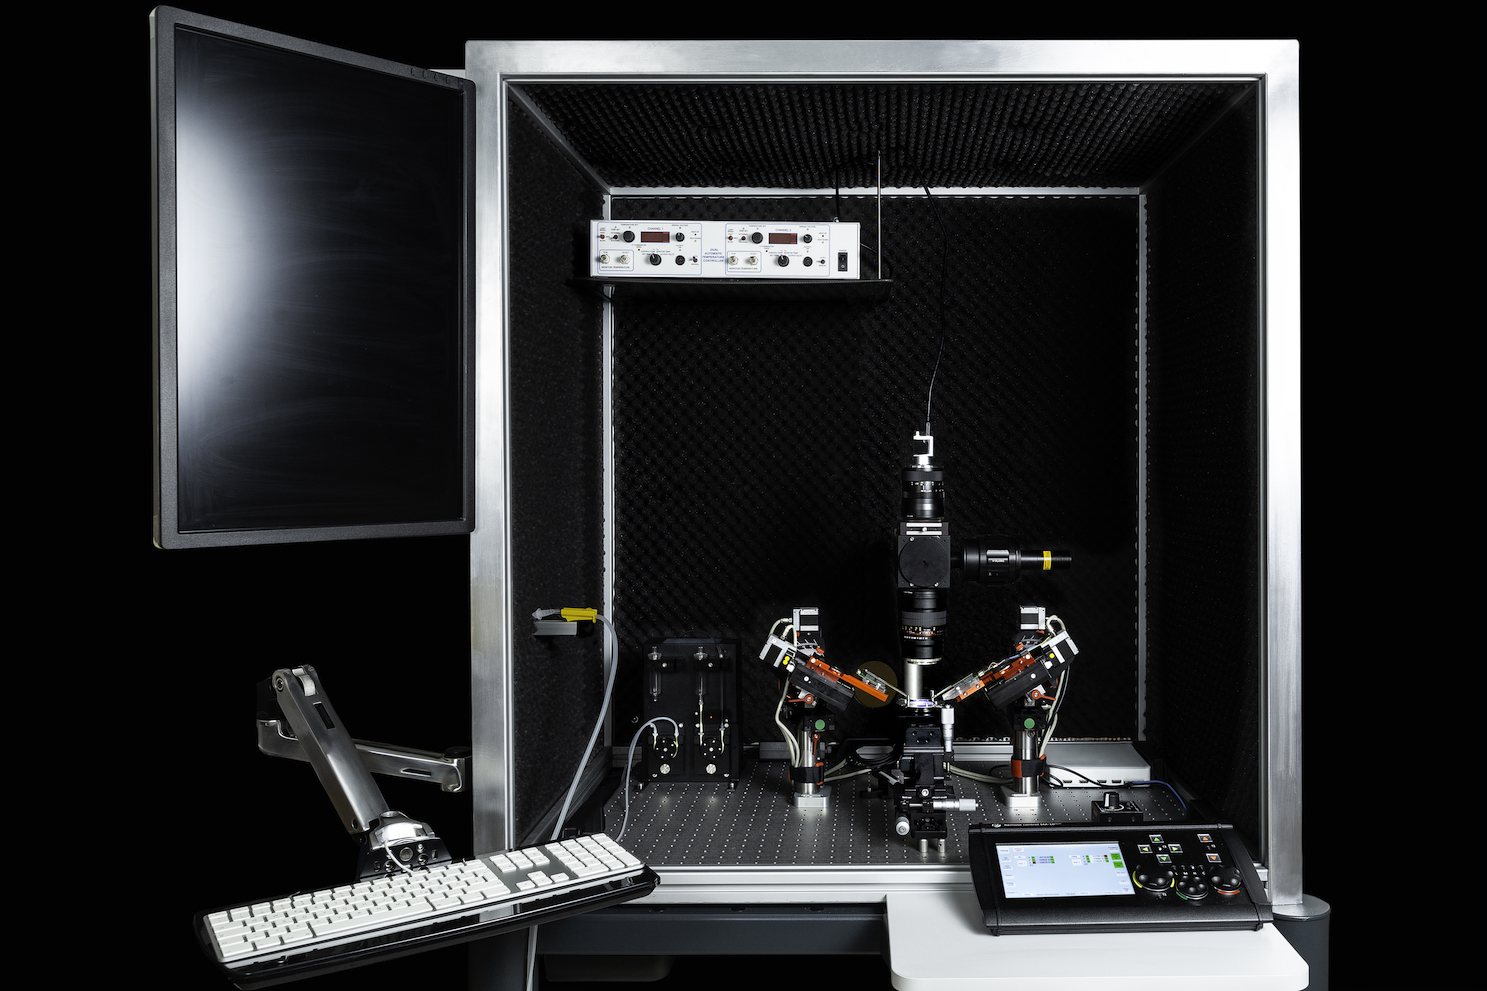
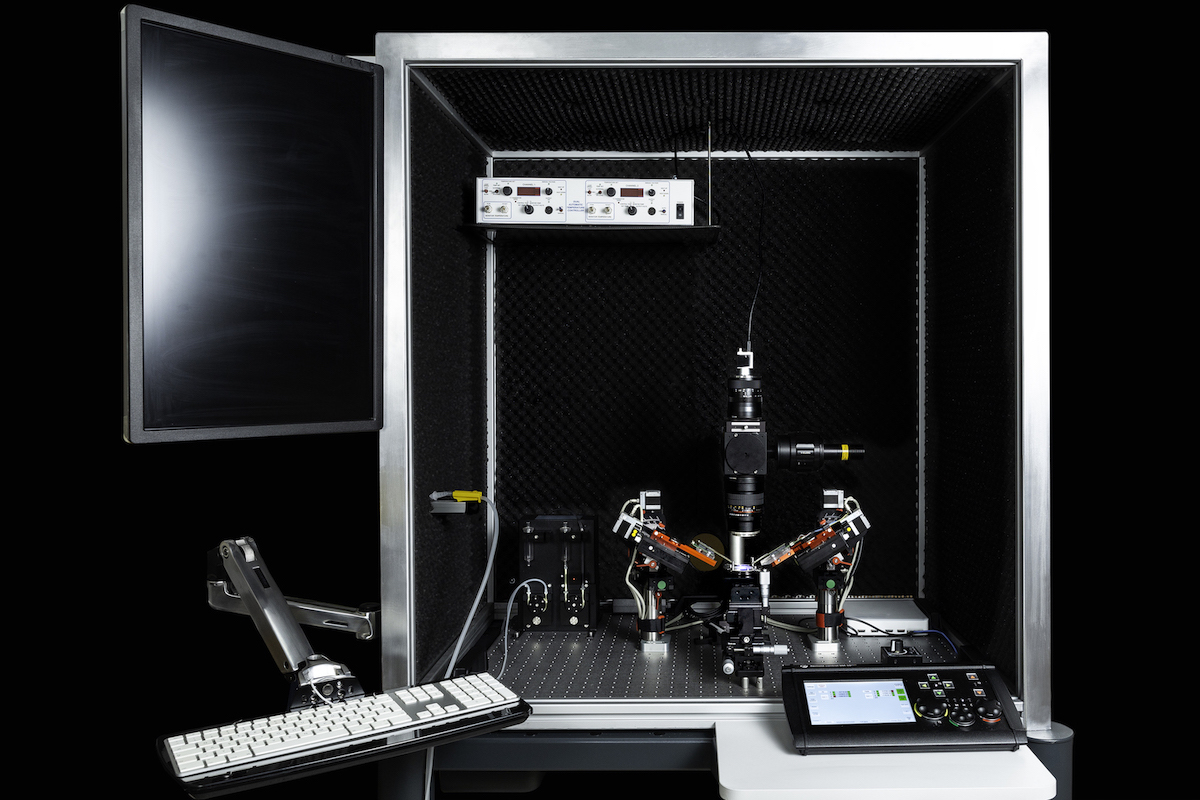
adjust size in Flask

Changed region(s): [[0.5242, 0.625, 0.555, 0.6875], [0.6783, 0.625, 0.7092, 0.6562]]

diff --git a/templates/index.html b/templates/index.html
@@ -8,11 +8,13 @@
     <!-- Indicators -->
     <ol class="carousel-indicators">
         <li data-target="#myCarousel" data-slide-to="0" class="active"></li>
+<!--
         <li data-target="#myCarousel" data-slide-to="1"></li>
         <li data-target="#myCarousel" data-slide-to="2"></li>
         <li data-target="#myCarousel" data-slide-to="3"></li>
         <li data-target="#myCarousel" data-slide-to="4"></li>
         <li data-target="#myCarousel" data-slide-to="5"></li>
+-->
     </ol>
 
     <!-- Wrapper for slides -->
@@ -20,8 +22,8 @@
 
     <!-- 1. OrganoStation intro -->
     <div class="item active">
-        <img src="{{ url_for('static', filename='/img/background.jpg') }}"
-        alt="Acquisition System" width="1200" height="700">
+        <img src="{{ url_for('static', filename='/img/background.jpg') }}" 
+           style="width: 1300px; height: 800px" />
         <div class="carousel-caption">
             <h2>OrganoStation</h2>
             <p>A multi-recording system for in vitro preparations</p>
@@ -30,8 +32,8 @@
 
     <!-- 2. Wide-field fluorescence imaging -->
     <div class="item">
-        <img src="{{ url_for('static', filename='/img/zoom.jpg')}}"
-        alt="Optogenetics" width="1200" height="700">
+        <img src="{{ url_for('static', filename='/img/zoom.jpg')}}" 
+           style="width: 1300px; height: 800px" />
         <div class="carousel-caption">
             <h2>Wide-field imaging</h2>
             <p>Infra-red imaging.</p>
@@ -40,8 +42,8 @@
 
     <!-- 3. Mechanical components -->
     <div class="item">
-        <img src="{{ url_for('static', filename='/img/zoom.jpg')}}"
-        alt="Optogenetics" width="1200" height="700">
+        <img src="{{ url_for('static', filename='/img/zoom.jpg')}}" 
+           style="width: 1300px; height: 800px" />
         <div class="carousel-caption">
             <h2>Precisse location</h2>
             <p>Low-noise acquistion.</p>
@@ -50,8 +52,8 @@
     
     <!-- 4. Optogenetics -->
     <div class="item">
-        <img src="{{ url_for('static', filename='/img/opticfiber.gif')}}"
-        alt="Optogenetics" width="1200" height="700">
+        <img src="{{ url_for('static', filename='/img/opticfiber.gif')}}" 
+           style="width: 1300px; height: 800px" />
         <div class="carousel-caption">
             <h2>Optogenetics</h2>
             <p>Optosimulation!</p>
@@ -60,8 +62,8 @@
 
     <!-- 5. Drug application -->
     <div class="item">
-        <img src="{{ url_for('static', filename='/img/optogenetics.jpg')}}"
-        alt="Drug application" width="1200" height="700">
+        <img src="{{ url_for('static', filename='/img/optogenetics.jpg')}}" 
+           style="width: 1300px; height: 800px" />
         <div class="carousel-caption">
             <h2>Drug application</h2>
             <p>Even though the traffic was a mess, we had the best time playing at Venice Beach!</p>

diff --git a/templates/header.html b/templates/header.html
@@ -27,10 +27,10 @@
 
     <!-- Right menu with options-->
     <ul class="nav navbar-nav navbar-left">
-      <li><a href="{{url_for('tutorials')}}"><spam class="glyphicon glyphicon-education"></spam> Tutorials</a></li>
-      <li><a href="visualoid"><spam class="glyphicon glyphicon-phone"></spam> App</a></li>
+      <li><a href="{{url_for('tutorials')}}"><spam class="glyphicon glyphicon-education"></spam> TUTORIALS</a></li>
+      <li><a href="visualoid"><spam class="glyphicon glyphicon-phone"></spam> APP</a></li>
       <li><a href="testboard"><spam class="glyphicon glyphicon-phone"></spam> TestBoard</a></li>
-      <li><a href="#contact"><spam class="glyphicon glyphicon-envelope"></spam> Contact</a></li>
+      <li><a href="#contact"><spam class="glyphicon glyphicon-envelope"></spam> CONTACT</a></li>
     </ul>
 
     <!-- Left menu with Sign Up and Login "-->
